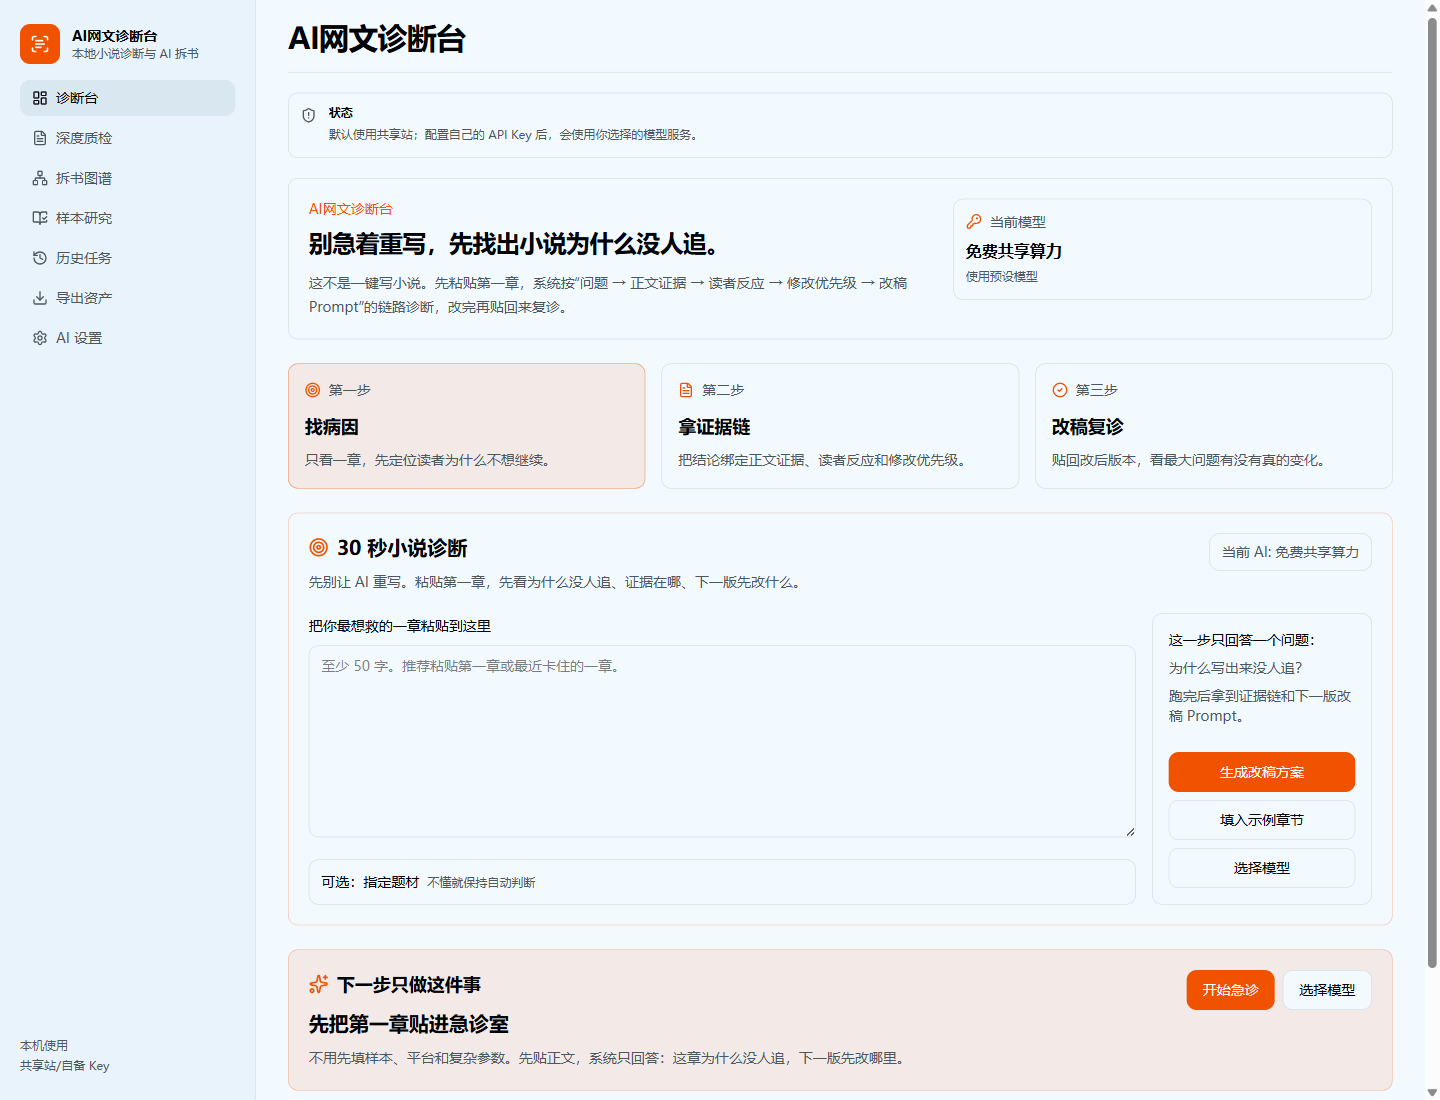
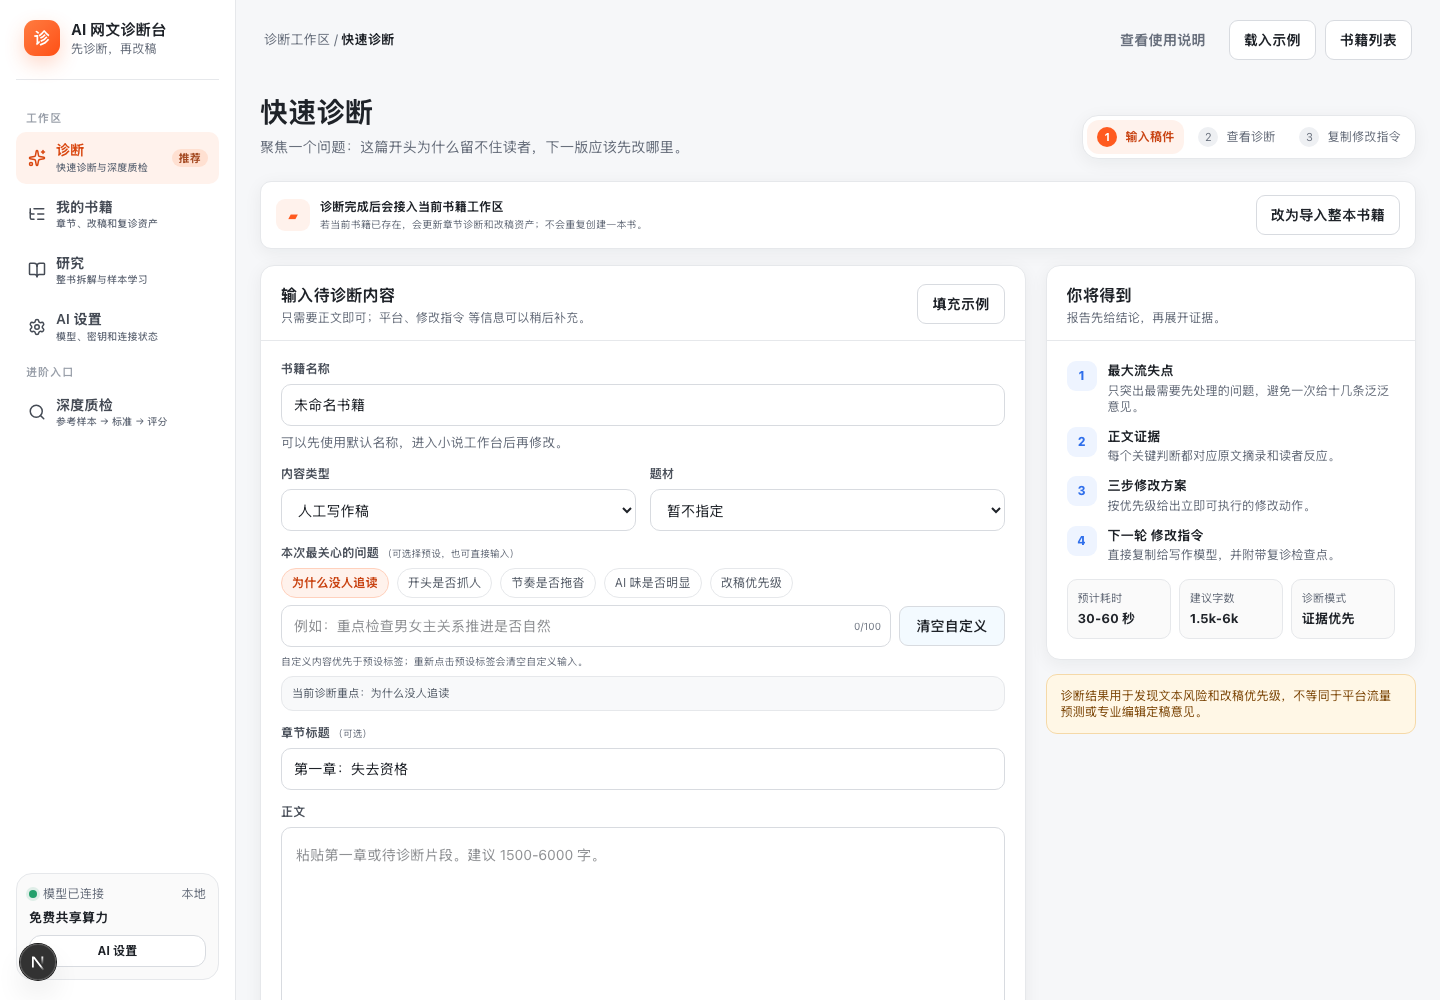
fix(web): update tests and readme screenshots

diff --git a/apps/web/src/components/workspace/quick/QuickDiagnosisCompose.test.tsx b/apps/web/src/components/workspace/quick/QuickDiagnosisCompose.test.tsx
@@ -3,6 +3,12 @@ import { describe, expect, it, vi } from "vitest";
 
 import { QuickDiagnosisCompose } from "./QuickDiagnosisCompose";
 
+vi.mock("next/navigation", () => ({
+	useRouter: () => ({
+		push: vi.fn(),
+	}),
+}));
+
 const baseHandlers = {
 	provider: { kind: "mock" as const, model: "" },
 	providerLabel: "本地演示",
@@ -46,9 +52,9 @@ describe("QuickDiagnosisCompose", () => {
 		const html = renderToStaticMarkup(<QuickDiagnosisCompose handlers={baseHandlers} />);
 
 		expect(html).toContain("快速诊断");
-		expect(html).toContain("快速诊断一章");
-		expect(html).toContain("至少 50 字");
-		expect(html).toContain("自动判断");
+		expect(html).toContain("聚焦一个问题");
+		expect(html).toContain("输入稿件");
+		expect(html).toContain("复制修改指令");
 		expect(html).toContain("本地演示");
 		expect(html).toContain("章节诊断");
 		expect(html).not.toContain("书籍上传");

diff --git a/apps/web/src/components/workspace/quick-diagnosis-flow.test.tsx b/apps/web/src/components/workspace/quick-diagnosis-flow.test.tsx
@@ -60,7 +60,7 @@ describe("quick diagnosis fixture flow", () => {
 			/>,
 		);
 
-		expect(html).toContain("30 秒小说诊断");
+		expect(html).toContain("快速诊断一章");
 		expect(html).toContain(example.label);
 		expect(html).toContain(result.mainProblem);
 		expect(html).toContain(result.oneLineDiagnosis!);
@@ -68,7 +68,7 @@ describe("quick diagnosis fixture flow", () => {
 		expect(html).toContain("平均置信度");
 		expect(html).toContain(result.issues![0]!.title);
 		expect(html).toContain(result.issues![0]!.evidence[0]!.locationHint);
-		expect(html).toContain("可复制给写作 AI 的改稿 Prompt");
+		expect(html).toContain("可复制给写作 AI 的修改指令");
 		expect(html).toContain(result.nextPrompt!.prompt);
 		expect(html).toContain("可沉淀的方法论卡片");
 		expect(html).toContain(result.methodologyCards![0]!.title);

diff --git a/apps/web/src/components/workspace/WorkspaceNav.test.tsx b/apps/web/src/components/workspace/WorkspaceNav.test.tsx
@@ -24,7 +24,7 @@ describe("WorkspaceNav", () => {
 		const html = renderToStaticMarkup(<WorkspaceNav />);
 
 		expect((html.match(/border-primary text-primary/g) ?? []).length).toBe(1);
-		expect(html).toContain("项目");
+		expect(html).toContain("我的书籍");
 		expect(push).not.toHaveBeenCalled();
 	});
 });

diff --git a/apps/web/src/components/workspace/chapter-critique-view.test.tsx b/apps/web/src/components/workspace/chapter-critique-view.test.tsx
@@ -60,7 +60,7 @@ describe("ChapterCritiqueView", () => {
 	it("renders the chapter critique workflow from workspace store state", () => {
 		const html = renderToStaticMarkup(<ChapterCritiqueView {...baseProps} />);
 
-		expect(html).toContain("30 秒小说诊断");
+		expect(html).toContain("快速诊断一章");
 		expect(html).toContain("深度质检：样本、评分标准和证据链");
 		expect(html).toContain("平台风格画像");
 		expect(html).toContain("导入成熟章节");

diff --git a/apps/web/src/components/workspace/overview-view.test.tsx b/apps/web/src/components/workspace/overview-view.test.tsx
@@ -83,7 +83,7 @@ describe("OverviewView", () => {
 
 		expect(html).toContain("AI网文诊断台");
 		expect(html).toContain("先找出小说为什么没人追。");
-		expect(html).toContain("30 秒小说诊断");
+		expect(html).toContain("快速诊断一章");
 		expect(html).toContain("诊断闭环");
 		expect(html).toContain("需要理解流程时再展开看。");
 		expect(html).toContain("本地演示");